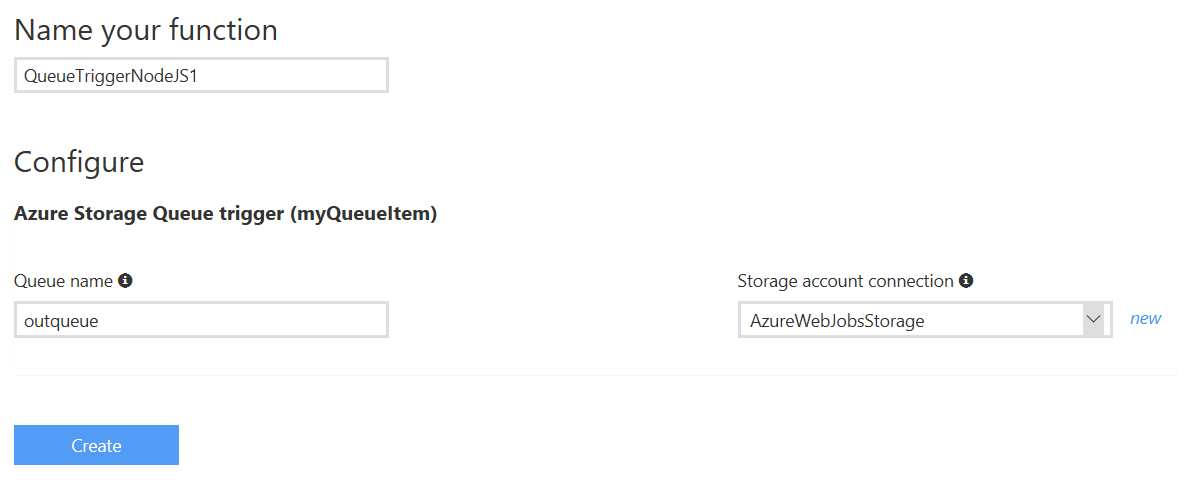
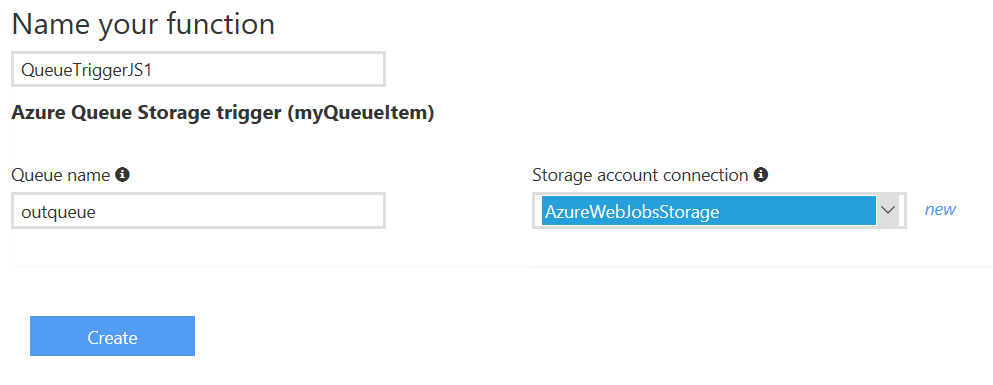
Rest of lab update

diff --git a/AzureFunctions/readme.md b/AzureFunctions/readme.md
@@ -78,13 +78,13 @@ Since the Azure Functions quickstarts contain functional code, you can immediate
 
 ---
 
-### Objective 4: Adding an Azure Storage Queue output
+### Objective 4: Adding an Azure Queue Storage output
 
 1. Click back to the **Integrate** tab, then click the **New Output** button.
 
 	![](images/function-app-add-output.png)
 
-1. Select Azure Storage Queue on the list, then click the **Select** button.
+1. Select Azure Queue Storage on the list, then click the **Select** button.
 
 	![](images/function-app-add-storage-queue.png)
 
@@ -94,7 +94,7 @@ Since the Azure Functions quickstarts contain functional code, you can immediate
 
 > Note: The **Message parameter name** is important, since this will also be the name of the variable in the function code.
 
-1. Click the **Develop** tab and change your function to take an `out stringoutput` parameter and write to this value, as shown below. Click the **Save** button to save your changes.
+1. Click the **Develop** tab and change your function to take an `out string output` parameter and write to this value, as shown below. Click the **Save** button to save your changes.
 
    ```csharp
    using System;
@@ -110,7 +110,7 @@ Since the Azure Functions quickstarts contain functional code, you can immediate
 
 ### Objective 5: Adding a Node Function Which Is Triggered By The Queue
 
-1. Click the **+ New Function** button on the left side. Filter the Language to JavaScript and select `QueueTrigger - Node` from the list.
+1. Click the **+ New Function** button on the left side. Filter the Language to JavaScript and select `QueueTrigger - JavaScript` from the list.
 
 	![](images/function-app-add-queue-trigger.png)
 
